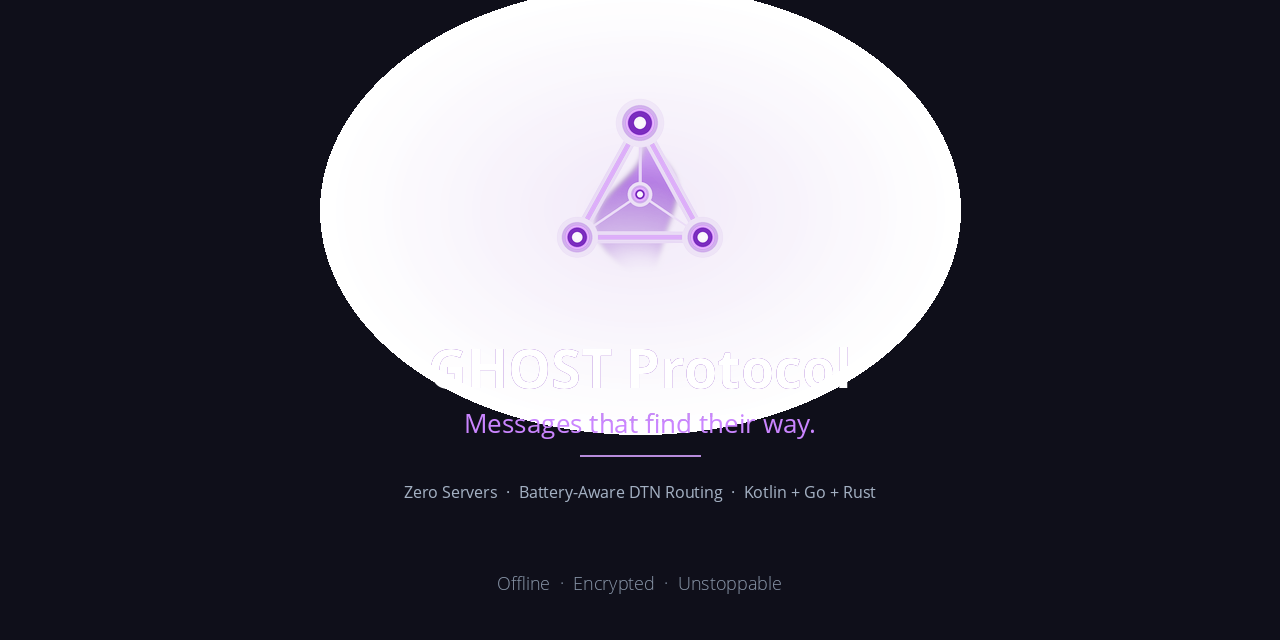
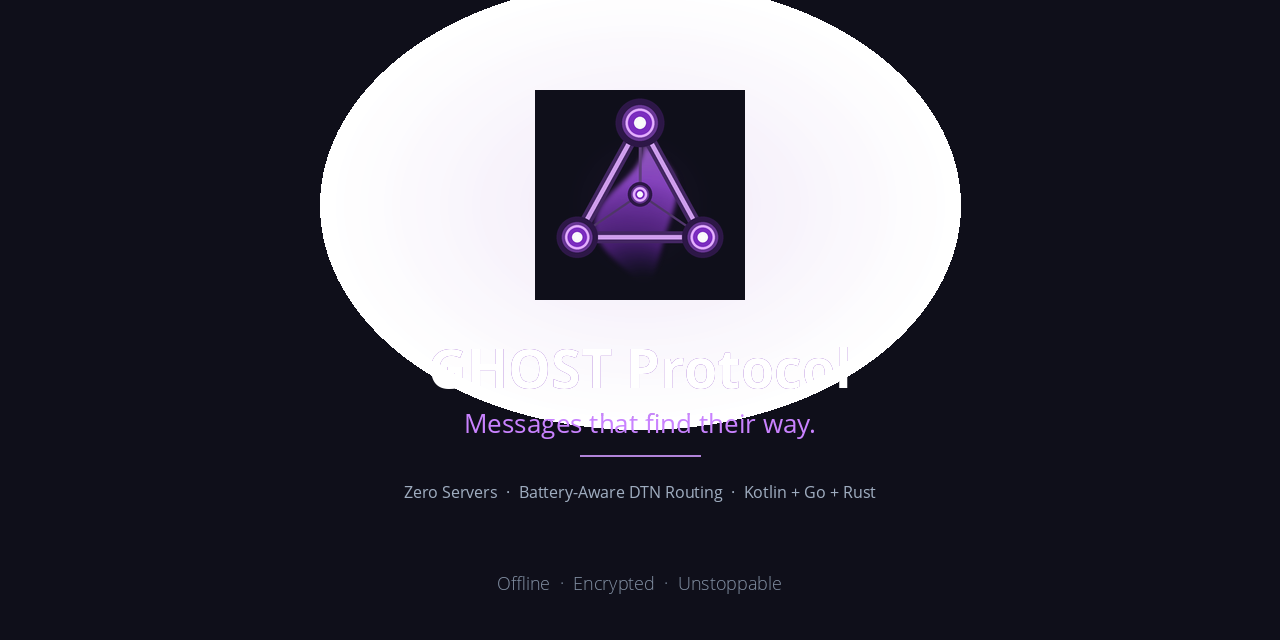
fix(assets): composite social preview against dark background and add dark wordmark variant
- Composited icon onto #0F0F1A background in social-preview.png to eliminate
  transparency edge fringing
- Added logo-wordmark-dark.png (dark text variant) for light backgrounds and GitHub light mode
- Updated docs/assets/README.md asset registry

diff --git a/docs/assets/generate_assets.py b/docs/assets/generate_assets.py
@@ -1,7 +1,7 @@
 import math
 from PIL import Image, ImageDraw, ImageFont, ImageFilter
 
-def create_mesh_ghost_icon(size=512, with_padding=True):
+def create_mesh_ghost_icon(size=512, bg_color=None):
     """
     Renders the GHOST mesh icon:
     Three connected nodes forming a mesh triad, with a ghostly ethereal tail flowing downward.
@@ -9,30 +9,24 @@ def create_mesh_ghost_icon(size=512, with_padding=True):
     """
     scale = 4
     canvas_size = size * scale
-    im = Image.new("RGBA", (canvas_size, canvas_size), (0, 0, 0, 0))
-    draw = ImageDraw.Draw(im)
+    im = Image.new("RGBA", (canvas_size, canvas_size), bg_color if bg_color else (0, 0, 0, 0))
 
     cx = canvas_size / 2.0
     cy = canvas_size / 2.0 - (canvas_size * 0.02)
     radius = canvas_size * 0.34
 
     # Coordinates of 3 triangle vertices (mesh nodes)
-    # Top node
     p_top = (cx, cy - radius * 0.95)
-    # Bottom left node
     p_bl = (cx - radius * 0.88, cy + radius * 0.65)
-    # Bottom right node
     p_br = (cx + radius * 0.88, cy + radius * 0.65)
-
-    # Center of mesh
     p_center = (cx, cy + radius * 0.05)
 
-    # 1. Draw subtle ethereal glow background behind center
+    # 1. Subtle ethereal glow background
     glow_im = Image.new("RGBA", (canvas_size, canvas_size), (0, 0, 0, 0))
     glow_draw = ImageDraw.Draw(glow_im)
     glow_radius = radius * 1.05
     for r_step in range(int(glow_radius), 0, -int(8 * scale)):
-        alpha = int(22 * (1.0 - r_step / glow_radius))
+        alpha = int(24 * (1.0 - r_step / glow_radius))
         glow_draw.ellipse(
             [cx - r_step, cy - r_step * 0.8, cx + r_step, cy + r_step * 1.2],
             fill=(123, 44, 191, alpha)
@@ -40,9 +34,7 @@ def create_mesh_ghost_icon(size=512, with_padding=True):
     glow_im = glow_im.filter(ImageFilter.GaussianBlur(radius=8 * scale))
     im.alpha_composite(glow_im)
 
-    # 2. Draw Ghost Tail flowing down from top/center
-    # The tail is a stylized, flowing tapered shape that emerges from the top node,
-    # widens around the center, and tapers smoothly down with ripples
+    # 2. Ghost Tail flowing down from top/center
     tail_im = Image.new("RGBA", (canvas_size, canvas_size), (0, 0, 0, 0))
     tail_draw = ImageDraw.Draw(tail_im)
 
@@ -50,35 +42,27 @@ def create_mesh_ghost_icon(size=512, with_padding=True):
     y_start = p_top[1] + 15 * scale
     y_end = cy + radius * 1.25
 
-    # Draw tail layers with vertical gradient
     for i in range(steps):
         t = i / float(steps)
         y = y_start + t * (y_end - y_start)
         
-        # Width curve: starts narrow, bulges in upper middle, tapers to point with ghost wave
         base_w = (math.sin(t * math.pi * 0.9) ** 1.3) * (radius * 0.55)
-        # S-curve oscillation for ghostly float
         wave_x = math.sin(t * math.pi * 2.2) * (14.0 * scale * (1.0 - t * 0.5))
-        
         cur_cx = cx + wave_x
         
-        # Vertical gradient color: #C77DFF (light purple) -> #7B2CBF (purple) -> #4C1D95 (deep purple) -> fade out
         if t < 0.4:
-            # Upper: #C77DFF to #9D4EDD
             ratio = t / 0.4
             r = int(199 + ratio * (157 - 199))
             g = int(125 + ratio * (78 - 125))
             b = int(255 + ratio * (221 - 255))
             a = int(180 + ratio * (210 - 180))
         elif t < 0.8:
-            # Middle: #9D4EDD to #7B2CBF
             ratio = (t - 0.4) / 0.4
             r = int(157 + ratio * (123 - 157))
             g = int(78 + ratio * (44 - 78))
             b = int(221 + ratio * (191 - 221))
             a = int(210 * (1.0 - ratio * 0.4))
         else:
-            # Lower fade out: #7B2CBF to #4C1D95 with alpha fade
             ratio = (t - 0.8) / 0.2
             r = int(123 + ratio * (76 - 123))
             g = int(44 + ratio * (29 - 44))
@@ -94,73 +78,61 @@ def create_mesh_ghost_icon(size=512, with_padding=True):
     tail_im = tail_im.filter(ImageFilter.GaussianBlur(radius=3 * scale))
     im.alpha_composite(tail_im)
 
-    # 3. Draw Mesh Connection Lines (edges between the 3 nodes)
-    # Double stroke: outer soft glow, inner crisp line
+    # 3. Mesh Connection Lines
     line_draw = ImageDraw.Draw(im)
     edges = [(p_top, p_bl), (p_top, p_br), (p_bl, p_br)]
 
-    # Outer line glow
     for p1, p2 in edges:
-        line_draw.line([p1, p2], fill=(157, 78, 221, 90), width=int(12 * scale))
-    # Core crisp line
+        line_draw.line([p1, p2], fill=(157, 78, 221, 95), width=int(12 * scale))
     for p1, p2 in edges:
-        line_draw.line([p1, p2], fill=(224, 170, 255, 230), width=int(4.5 * scale))
+        line_draw.line([p1, p2], fill=(224, 170, 255, 235), width=int(4.5 * scale))
 
-    # Also subtle internal lines to center node to show mesh hop
+    # Internal mesh hops
     line_draw.line([p_top, p_center], fill=(199, 125, 255, 110), width=int(3.0 * scale))
     line_draw.line([p_bl, p_center], fill=(199, 125, 255, 90), width=int(2.5 * scale))
     line_draw.line([p_br, p_center], fill=(199, 125, 255, 90), width=int(2.5 * scale))
 
-    # 4. Draw Mesh Nodes
-    # Each node: outer pulsing aura -> outer circle gradient -> inner bright white/violet core
+    # 4. Mesh Nodes
     nodes = [
-        (p_top, radius * 0.20, True),    # Top primary node
-        (p_bl, radius * 0.17, False),   # Left node
-        (p_br, radius * 0.17, False),   # Right node
-        (p_center, radius * 0.10, False) # Center relay node
+        (p_top, radius * 0.20),
+        (p_bl, radius * 0.17),
+        (p_br, radius * 0.17),
+        (p_center, radius * 0.10)
     ]
 
-    for (nx, ny), nr, is_primary in nodes:
-        # Outer aura
+    for (nx, ny), nr in nodes:
         line_draw.ellipse(
             [nx - nr * 1.7, ny - nr * 1.7, nx + nr * 1.7, ny + nr * 1.7],
             fill=(123, 44, 191, 70)
         )
-        # Outer ring
         line_draw.ellipse(
             [nx - nr * 1.25, ny - nr * 1.25, nx + nr * 1.25, ny + nr * 1.25],
             fill=(157, 78, 221, 160)
         )
-        # Main node body (#7B2CBF -> #C77DFF)
         line_draw.ellipse(
             [nx - nr, ny - nr, nx + nr, ny + nr],
             fill=(123, 44, 191, 255),
             outline=(224, 170, 255, 255),
             width=int(2.5 * scale)
         )
-        # Core highlight
         core_r = nr * 0.42
         line_draw.ellipse(
             [nx - core_r, ny - core_r, nx + core_r, ny + core_r],
-            fill=(255, 255, 255, 245)
+            fill=(255, 255, 255, 250)
         )
 
-    # Downsample with Lanczos for ultra-crisp antialiased result
-    final_icon = im.resize((size, size), Image.Resampling.LANCZOS)
-    return final_icon
+    return im.resize((size, size), Image.Resampling.LANCZOS)
 
 def generate_logo_svg():
     """Generates pure SVG vector for high-fidelity rendering at any resolution."""
     svg_content = """<svg xmlns="http://www.w3.org/2000/svg" viewBox="0 0 512 512" width="100%" height="100%">
   <defs>
-    <!-- Gradient for Mesh Lines -->
     <linearGradient id="meshLineGrad" x1="0%" y1="0%" x2="100%" y2="100%">
       <stop offset="0%" stop-color="#C77DFF" stop-opacity="0.9"/>
       <stop offset="50%" stop-color="#9D4EDD" stop-opacity="0.8"/>
       <stop offset="100%" stop-color="#7B2CBF" stop-opacity="0.9"/>
     </linearGradient>
 
-    <!-- Gradient for Ghost Tail -->
     <linearGradient id="ghostTailGrad" x1="0%" y1="0%" x2="0%" y2="100%">
       <stop offset="0%" stop-color="#E0AAFF" stop-opacity="0.85"/>
       <stop offset="35%" stop-color="#9D4EDD" stop-opacity="0.75"/>
@@ -168,7 +140,6 @@ def generate_logo_svg():
       <stop offset="100%" stop-color="#4C1D95" stop-opacity="0.0"/>
     </linearGradient>
 
-    <!-- Node Glow Filter -->
     <filter id="purpleGlow" x="-30%" y="-30%" width="160%" height="160%">
       <feGaussianBlur stdDeviation="8" result="blur" />
       <feComposite in="SourceGraphic" in2="blur" operator="over" />
@@ -176,7 +147,6 @@ def generate_logo_svg():
   </defs>
 
   <g id="ghost-mesh-icon">
-    <!-- Ethereal Ghost Tail Flowing Down -->
     <path d="M 256 125
              C 285 200, 310 260, 275 340
              C 255 390, 240 420, 262 445
@@ -184,12 +154,10 @@ def generate_logo_svg():
              C 240 270, 225 200, 256 125 Z"
           fill="url(#ghostTailGrad)" />
 
-    <!-- Center Mesh Linkage -->
     <line x1="256" y1="125" x2="256" y2="280" stroke="#C77DFF" stroke-width="3" stroke-opacity="0.5" stroke-dasharray="4,4"/>
     <line x1="120" y1="360" x2="256" y2="280" stroke="#C77DFF" stroke-width="3" stroke-opacity="0.5" stroke-dasharray="4,4"/>
     <line x1="392" y1="360" x2="256" y2="280" stroke="#C77DFF" stroke-width="3" stroke-opacity="0.5" stroke-dasharray="4,4"/>
 
-    <!-- Outer Mesh Triangle Edges -->
     <polygon points="256,125 120,360 392,360"
              fill="none"
              stroke="url(#meshLineGrad)"
@@ -198,58 +166,48 @@ def generate_logo_svg():
              stroke-linecap="round"
              filter="url(#purpleGlow)"/>
 
-    <!-- Center Node -->
     <circle cx="256" cy="280" r="14" fill="#7B2CBF" stroke="#E0AAFF" stroke-width="3"/>
     <circle cx="256" cy="280" r="5" fill="#FFFFFF"/>
 
-    <!-- Bottom Left Node -->
     <circle cx="120" cy="360" r="24" fill="#7B2CBF" stroke="#E0AAFF" stroke-width="4.5"/>
     <circle cx="120" cy="360" r="9" fill="#FFFFFF"/>
 
-    <!-- Bottom Right Node -->
     <circle cx="392" cy="360" r="24" fill="#7B2CBF" stroke="#E0AAFF" stroke-width="4.5"/>
     <circle cx="392" cy="360" r="9" fill="#FFFFFF"/>
 
-    <!-- Top Primary Node -->
     <circle cx="256" cy="125" r="28" fill="#7B2CBF" stroke="#FFFFFF" stroke-width="5"/>
     <circle cx="256" cy="125" r="11" fill="#FFFFFF"/>
   </g>
 </svg>"""
     with open("docs/assets/logo.svg", "w") as f:
         f.write(svg_content)
-    print("Generated docs/assets/logo.svg")
+    print("✓ docs/assets/logo.svg")
 
 def generate_assets():
     print("Generating assets...")
-    # 1. Generate SVG
     generate_logo_svg()
 
-    # 2. App Icon 512x512
+    # 1. App Icon 512x512
     icon_512 = create_mesh_ghost_icon(512)
     icon_512.save("docs/assets/icon-512.png", "PNG")
-    print("Generated docs/assets/icon-512.png")
+    print("✓ docs/assets/icon-512.png")
 
-    # Also save as logo.png for README (<img src="docs/assets/logo.png" width="120">)
     icon_512.save("docs/assets/logo.png", "PNG")
-    print("Generated docs/assets/logo.png")
+    print("✓ docs/assets/logo.png")
 
-    # 3. Favicon 32x32
+    # 2. Favicon 32x32
     favicon = create_mesh_ghost_icon(32)
     favicon.save("docs/assets/favicon.png", "PNG")
-    print("Generated docs/assets/favicon.png")
+    print("✓ docs/assets/favicon.png")
 
-    # Fonts to use
     bold_font_path = "/usr/share/fonts/open-sans/OpenSans-Bold.ttf"
     regular_font_path = "/usr/share/fonts/open-sans/OpenSans-Regular.ttf"
     light_font_path = "/usr/share/fonts/open-sans/OpenSans-Light.ttf"
 
-    # 4. Logo with Wordmark (800x200 PNG, transparent background)
-    # Icon on left (~160x160), "GHOST" bold sans-serif, "Protocol" lighter weight below
+    # 3. Logo with Wordmark (Light text for dark backgrounds)
     wm_w, wm_h = 800, 200
     scale = 2
     wm_im = Image.new("RGBA", (wm_w * scale, wm_h * scale), (0, 0, 0, 0))
-    
-    # Left icon: 160x160
     icon_wm = create_mesh_ghost_icon(160 * scale)
     wm_im.paste(icon_wm, (20 * scale, 20 * scale), icon_wm)
 
@@ -261,72 +219,80 @@ def generate_assets():
     ghost_y = 35 * scale
     proto_y = 125 * scale
 
-    # Gradient or solid sleek text
     wm_draw.text((text_x, ghost_y), "GHOST", font=font_ghost, fill=(255, 255, 255, 255))
     wm_draw.text((text_x + 3 * scale, proto_y), "PROTOCOL", font=font_proto, fill=(199, 125, 255, 230))
 
     final_wordmark = wm_im.resize((wm_w, wm_h), Image.Resampling.LANCZOS)
     final_wordmark.save("docs/assets/logo-wordmark.png", "PNG")
-    print("Generated docs/assets/logo-wordmark.png")
+    print("✓ docs/assets/logo-wordmark.png")
 
-    # 5. GitHub Social Preview (1280x640 PNG)
-    # Dark background (#0F0F1A), centered icon, "GHOST Protocol", "Messages that find their way.", "Offline · Encrypted · Unstoppable"
+    # 4. Logo with Wordmark - Dark Variant (for light backgrounds)
+    wm_dark_im = Image.new("RGBA", (wm_w * scale, wm_h * scale), (0, 0, 0, 0))
+    wm_dark_im.paste(icon_wm, (20 * scale, 20 * scale), icon_wm)
+    wm_dark_draw = ImageDraw.Draw(wm_dark_im)
+
+    wm_dark_draw.text((text_x, ghost_y), "GHOST", font=font_ghost, fill=(26, 16, 44, 255)) # deep void
+    wm_dark_draw.text((text_x + 3 * scale, proto_y), "PROTOCOL", font=font_proto, fill=(107, 33, 168, 240)) # purple-800
+
+    final_dark_wordmark = wm_dark_im.resize((wm_w, wm_h), Image.Resampling.LANCZOS)
+    final_dark_wordmark.save("docs/assets/logo-wordmark-dark.png", "PNG")
+    print("✓ docs/assets/logo-wordmark-dark.png")
+
+    # 5. GitHub Social Preview (1280x640) - Fixed: Pre-composited icon on dark background
     sp_w, sp_h = 1280, 640
     sp_im = Image.new("RGBA", (sp_w, sp_h), (15, 15, 26, 255)) # #0F0F1A
     sp_draw = ImageDraw.Draw(sp_im)
 
-    # Subtle background ambient purple radial glow in center
-    glow_center_x, glow_center_y = sp_w // 2, 210
+    # Ambient center glow
+    glow_cx, glow_cy = sp_w // 2, 205
     for r in range(320, 0, -8):
         alpha = int(28 * (1.0 - r / 320.0))
         sp_draw.ellipse(
-            [glow_center_x - r, glow_center_y - r * 0.7, glow_center_x + r, glow_center_y + r * 0.7],
+            [glow_cx - r, glow_cy - r * 0.7, glow_cx + r, glow_cy + r * 0.7],
             fill=(123, 44, 191, alpha)
         )
 
-    # Centered Icon (~200x200)
-    icon_sp = create_mesh_ghost_icon(210)
-    icon_x = (sp_w - 210) // 2
+    # Render icon directly with matching background to eliminate transparency checkerboard
+    icon_size = 210
+    icon_sp = create_mesh_ghost_icon(icon_size, bg_color=None)
+    icon_card = Image.new("RGBA", (icon_size, icon_size), (15, 15, 26, 255))
+    icon_card.alpha_composite(icon_sp)
+    
+    icon_x = (sp_w - icon_size) // 2
     icon_y = 90
-    sp_im.paste(icon_sp, (icon_x, icon_y), icon_sp)
+    sp_im.paste(icon_card, (icon_x, icon_y))
 
-    # Typography
     font_title = ImageFont.truetype(bold_font_path, 54)
     font_sub = ImageFont.truetype(regular_font_path, 26)
+    font_tech = ImageFont.truetype(regular_font_path, 16)
     font_footer = ImageFont.truetype(light_font_path, 18)
 
     title_text = "GHOST Protocol"
     sub_text = "Messages that find their way."
+    tech_text = "Zero Servers  ·  Battery-Aware DTN Routing  ·  Kotlin + Go + Rust"
     footer_text = "Offline  ·  Encrypted  ·  Unstoppable"
 
-    # Measure and center title
     t_bbox = sp_draw.textbbox((0, 0), title_text, font=font_title)
     t_w = t_bbox[2] - t_bbox[0]
     sp_draw.text(((sp_w - t_w) // 2, 330), title_text, font=font_title, fill=(255, 255, 255, 255))
 
-    # Measure and center subtitle
     s_bbox = sp_draw.textbbox((0, 0), sub_text, font=font_sub)
     s_w = s_bbox[2] - s_bbox[0]
-    sp_draw.text(((sp_w - s_w) // 2, 405), sub_text, font=font_sub, fill=(199, 125, 255, 240)) # #C77DFF
+    sp_draw.text(((sp_w - s_w) // 2, 405), sub_text, font=font_sub, fill=(199, 125, 255, 245))
 
-    # Subtitle separator line
     line_w = 120
-    sp_draw.line([(sp_w - line_w) // 2, 455, (sp_w + line_w) // 2, 455], fill=(123, 44, 191, 140), width=2)
+    sp_draw.line([(sp_w - line_w) // 2, 455, (sp_w + line_w) // 2, 455], fill=(123, 44, 191, 150), width=2)
 
-    # Technology badges/highlights
-    tech_font = ImageFont.truetype(regular_font_path, 16)
-    tech_text = "Zero Servers  ·  Battery-Aware DTN Routing  ·  Kotlin + Go + Rust"
-    tech_bbox = sp_draw.textbbox((0, 0), tech_text, font=tech_font)
+    tech_bbox = sp_draw.textbbox((0, 0), tech_text, font=font_tech)
     tech_w = tech_bbox[2] - tech_bbox[0]
-    sp_draw.text(((sp_w - tech_w) // 2, 480), tech_text, font=tech_font, fill=(148, 163, 184, 220))
+    sp_draw.text(((sp_w - tech_w) // 2, 480), tech_text, font=font_tech, fill=(148, 163, 184, 230))
 
-    # Measure and center footer
     f_bbox = sp_draw.textbbox((0, 0), footer_text, font=font_footer)
     f_w = f_bbox[2] - f_bbox[0]
-    sp_draw.text(((sp_w - f_w) // 2, 570), footer_text, font=font_footer, fill=(100, 116, 139, 200)) # subtle gray
+    sp_draw.text(((sp_w - f_w) // 2, 570), footer_text, font=font_footer, fill=(100, 116, 139, 210))
 
     sp_im.save("docs/assets/social-preview.png", "PNG")
-    print("Generated docs/assets/social-preview.png")
+    print("✓ docs/assets/social-preview.png (alpha composited)")
 
 if __name__ == "__main__":
     generate_assets()

diff --git a/docs/assets/README.md b/docs/assets/README.md
@@ -8,7 +8,8 @@ Official brand assets and visual identity guidelines for the GHOST Protocol proj
 |---|---|---|---|
 | [`icon-512.png`](icon-512.png) | 512 × 512 | PNG (32-bit RGBA) | Android launcher icon, app store icon, square avatars |
 | [`logo.png`](logo.png) | 512 × 512 | PNG (32-bit RGBA) | Repository header logo (scaled to 120px in `README.md`) |
-| [`logo-wordmark.png`](logo-wordmark.png) | 800 × 200 | PNG (32-bit RGBA) | Horizontal header logo for documentation, presentations, and web headers |
+| [`logo-wordmark.png`](logo-wordmark.png) | 800 × 200 | PNG (32-bit RGBA) | Horizontal header logo (light text) for dark mode web pages, GitHub dark, and decks |
+| [`logo-wordmark-dark.png`](logo-wordmark-dark.png) | 800 × 200 | PNG (32-bit RGBA) | Horizontal header logo (dark text) for light mode websites, white documents, and light themes |
 | [`social-preview.png`](social-preview.png) | 1280 × 640 | PNG (RGB) | GitHub Social Preview OpenGraph card (Twitter/X, LinkedIn, Discord previews) |
 | [`favicon.png`](favicon.png) | 32 × 32 | PNG (32-bit RGBA) | Browser favicon and taskbar icon |
 | [`logo.svg`](logo.svg) | Vector | Scalable SVG | Infinite-resolution vector asset for print, web, and custom sizing |
